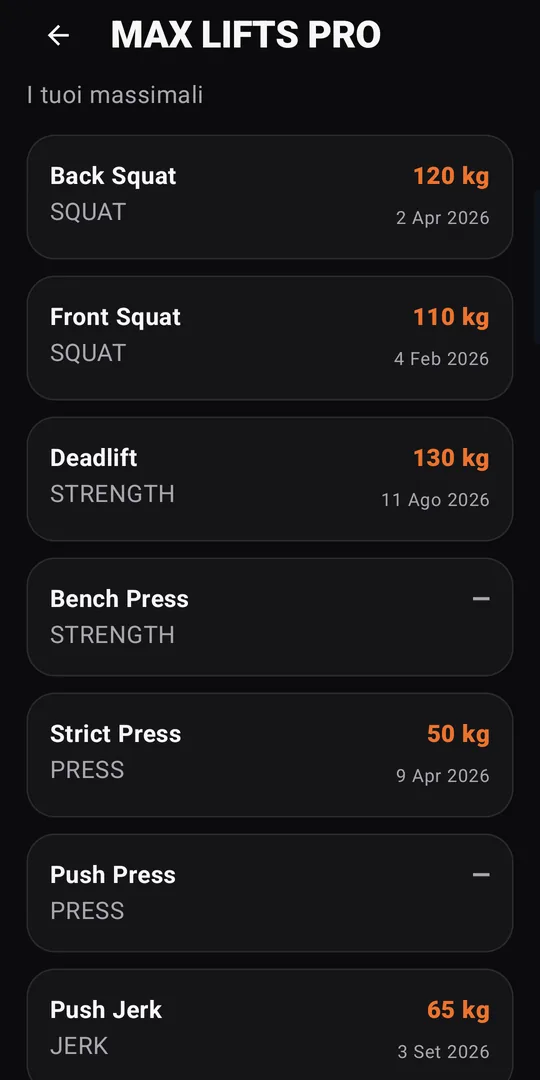
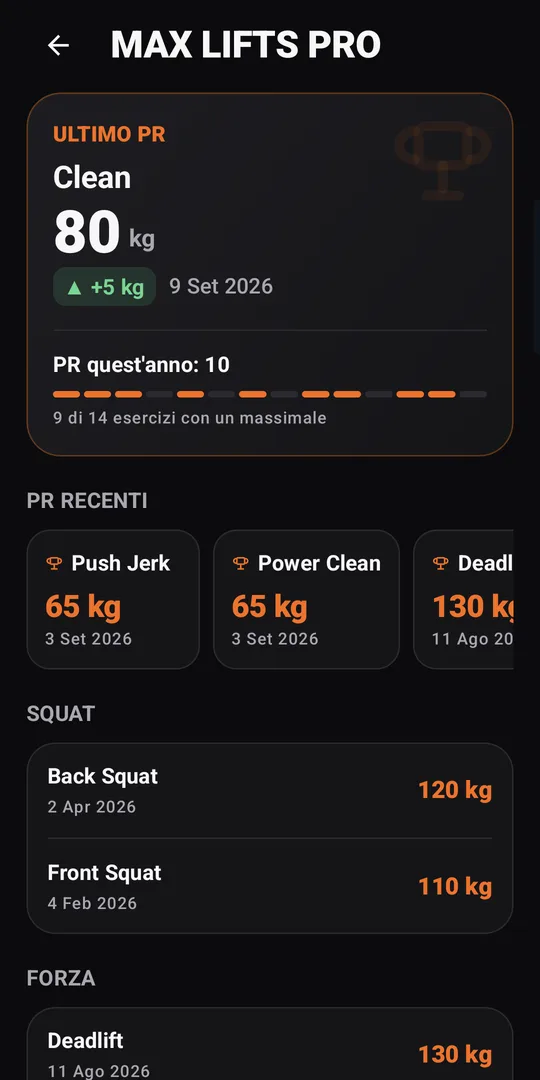
Guida: nuovo check-in, History Pro nelle azioni rapide, cambio rapido profilo, FC massima in Analytics, regole di Progress Intelligence; screenshot aggiornati (home, Iron Coach, massimali, Progress, profilo, scheda esercizio)
Claude-Session: https://claude.ai/code/session_01B6vcT2Bh3pFPGsDXMHdm6f

diff --git a/guida/index.html b/guida/index.html
@@ -193,14 +193,20 @@ const SECTIONS = [
     id: 'start',
     title: { it: 'Primi passi', en: 'Getting started', es: 'Primeros pasos' },
     intro: {
-      it: 'La Home raccoglie l\'atleta attivo, le azioni rapide, il consiglio di Iron Coach e le ultime sessioni. Il menu in alto a sinistra apre tutte le sezioni.',
-      en: 'Home shows the active athlete, quick actions, today\'s Iron Coach advice and your latest sessions. The menu at the top left opens every section.',
-      es: 'La Home reúne el atleta activo, las acciones rápidas, el consejo de Iron Coach y las últimas sesiones. El menú arriba a la izquierda abre todas las secciones.'
+      it: 'La Home si apre con la scheda <b>Oggi</b> di Iron Coach, poi le azioni rapide, la tua settimana, l\'Iron Score e l\'andamento. L\'avatar in alto a destra cambia atleta, il menu in alto a sinistra apre tutte le sezioni.',
+      en: 'Home opens with Iron Coach\'s <b>Today</b> card, then quick actions, your week, the Iron Score and your trends. The avatar at the top right switches athlete, the menu at the top left opens every section.',
+      es: 'La Home se abre con la ficha <b>Hoy</b> de Iron Coach, luego las acciones rápidas, tu semana, el Iron Score y la evolución. El avatar arriba a la derecha cambia de atleta, el menú arriba a la izquierda abre todas las secciones.'
     },
     shots: [['home', { it: 'Home', en: 'Home', es: 'Home' }], ['drawer', { it: 'Menu laterale', en: 'Side menu', es: 'Menú lateral' }]],
     items: [
+      { t: { it: 'Oggi e Inizia', en: 'Today and Start', es: 'Hoy y Empezar' },
+        d: { it: 'La scheda arancione propone l\'allenamento del giorno. <b>Inizia</b> chiede dove ti alleni (<b>al box</b>, con <b>la tua attrezzatura</b> del profilo atleta o a <b>corpo libero</b>) e quanto tempo hai, poi genera un WOD su misura per il tuo livello e le tue skill, pronto da avviare o modificare. L\'ultima scelta viene ricordata. <b>Scegli un WOD</b> apre invece la libreria. Dalla stessa scheda fai il check-in del giorno: dopo vedi la tua prontezza a colori e, riga per riga, come il WOD è stato adattato a come stai.', en: 'The orange card suggests today\'s workout. <b>Start</b> asks where you train (<b>at the box</b>, with <b>your equipment</b> from the athlete profile or <b>bodyweight</b>) and how much time you have, then generates a WOD tailored to your level and skills, ready to start or edit. Your last choice is remembered. <b>Pick a WOD</b> opens the library instead. The same card has the daily check-in: afterwards it shows your readiness in color and, line by line, how the WOD was adapted to how you feel.', es: 'La ficha naranja propone el entrenamiento del día. <b>Empezar</b> pregunta dónde entrenas (<b>en el box</b>, con <b>tu material</b> del perfil de atleta o con <b>peso corporal</b>) y cuánto tiempo tienes, y genera un WOD a medida de tu nivel y tus skills, listo para iniciar o editar. Se recuerda la última elección. <b>Elegir un WOD</b> abre en cambio la biblioteca. En la misma ficha haces el check-in del día: después ves tu preparación en colores y, línea por línea, cómo se ha adaptado el WOD a cómo estás.' } },
+      { t: { it: 'Settimana e Iron Score', en: 'Week and Iron Score', es: 'Semana e Iron Score' },
+        d: { it: 'La settimana da lunedì a domenica con i giorni allenati spuntati, i giorni di fila, le sessioni e i minuti. L\'Iron Score riassume costanza ed esperienza: i livelli più alti arrivano solo con mesi di allenamento.', en: 'The week from Monday to Sunday with trained days ticked, your streak, sessions and minutes. The Iron Score sums up consistency and experience: the top levels only come with months of training.', es: 'La semana de lunes a domingo con los días entrenados marcados, los días seguidos, las sesiones y los minutos. El Iron Score resume constancia y experiencia: los niveles más altos solo llegan con meses de entrenamiento.' } },
       { t: { it: 'Azioni rapide', en: 'Quick actions', es: 'Acciones rápidas' },
-        d: { it: 'Quattro scorciatoie personalizzabili verso le sezioni che usi di più (Timer, Workout, Esercizi, Massimali…).', en: 'Four customizable shortcuts to the sections you use most (Timers, Workout, Exercises, Max lifts…).', es: 'Cuatro accesos directos personalizables a las secciones que más usas (Timers, Workout, Ejercicios, Máximos…).' } },
+        d: { it: 'Quattro scorciatoie personalizzabili verso le sezioni che usi di più (Timer, History Pro, Esercizi, Massimali…).', en: 'Four customizable shortcuts to the sections you use most (Timers, History Pro, Exercises, Max lifts…).', es: 'Cuatro accesos directos personalizables a las secciones que más usas (Timers, History Pro, Ejercicios, Máximos…).' } },
+      { t: { it: 'Progressi e percorso', en: 'Progress and journey', es: 'Progreso y recorrido' },
+        d: { it: 'Più in basso due grafici: gli <b>ultimi 30 giorni</b> (giorni attivi, tempo totale e confronto con i 30 giorni prima) e le <b>ultime 12 settimane</b>, una colonna per settimana con i giorni di allenamento e la linea della tua media.', en: 'Further down, two charts: the <b>last 30 days</b> (active days, total time and comparison with the 30 days before) and the <b>last 12 weeks</b>, one column per week with your training days and a line at your average.', es: 'Más abajo, dos gráficos: los <b>últimos 30 días</b> (días activos, tiempo total y comparación con los 30 días anteriores) y las <b>últimas 12 semanas</b>, una columna por semana con los días de entrenamiento y la línea de tu media.' } },
       { t: { it: 'Lingua e terminologia', en: 'Language and terminology', es: 'Idioma y terminología' },
         d: { it: 'Italiano, inglese e spagnolo. I nomi ufficiali del cross training (Thruster, Muscle-Up, For Time…) restano in inglese in tutte le lingue, come in palestra.', en: 'Italian, English and Spanish. Official cross-training names (Thruster, Muscle-Up, For Time…) stay in English in every language, as in the box.', es: 'Italiano, inglés y español. Los nombres oficiales del cross training (Thruster, Muscle-Up, For Time…) se mantienen en inglés en todos los idiomas, como en el box.' } },
       { t: { it: 'Unità e tema', en: 'Units and theme', es: 'Unidades y tema' },
@@ -330,7 +336,7 @@ const SECTIONS = [
       { t: { it: 'Aprire un WOD ricevuto', en: 'Opening a WOD you received', es: 'Abrir un WOD recibido' },
         d: { it: 'Toccando il link si apre l\'editor con il WOD già compilato: intervalli, round, tempi, esercizi e carichi. Controlla, cambia quello che vuoi e salva. Chi non ha l\'app vede l\'anteprima del WOD nel browser e il link a Google Play.', en: 'Tapping the link opens the editor with the WOD already filled in: intervals, rounds, times, exercises and loads. Review it, change what you like and save. Without the app, the browser shows a preview of the WOD and the Google Play link.', es: 'Al tocar el enlace se abre el editor con el WOD ya completo: intervalos, rondas, tiempos, ejercicios y cargas. Revísalo, cambia lo que quieras y guarda. Sin la app, el navegador muestra una vista previa del WOD y el enlace a Google Play.' } },
       { t: { it: 'Dalle sessioni', en: 'From your sessions', es: 'Desde tus sesiones' },
-        d: { it: 'Nel dettaglio di una sessione le stesse due icone in alto passano il WOD fatto quel giorno, anche se nel frattempo l\'hai cancellato dalla libreria. <b>Condividi risultato</b>, in fondo, manda invece il tuo risultato.', en: 'In a session\'s detail the same two icons at the top pass on the WOD you did that day, even if you have since deleted it from the library. <b>Share result</b>, at the bottom, sends your result instead.', es: 'En el detalle de una sesión los mismos dos iconos de arriba pasan el WOD que hiciste ese día, aunque lo hayas borrado de la biblioteca. <b>Compartir resultado</b>, abajo, envía en cambio tu resultado.' } }
+        d: { it: 'Nel dettaglio di una sessione le stesse due icone in alto passano il WOD fatto quel giorno, anche se nel frattempo l\'hai cancellato dalla libreria. <b>Condividi risultato</b>, in fondo, manda invece il tuo risultato: un messaggio ordinato con tempo, blocchi e intervalli come li hai fatti, tempi dei round e note.', en: 'In a session\'s detail the same two icons at the top pass on the WOD you did that day, even if you have since deleted it from the library. <b>Share result</b>, at the bottom, sends your result instead: a tidy message with time, blocks and intervals as you did them, round times and notes.', es: 'En el detalle de una sesión los mismos dos iconos de arriba pasan el WOD que hiciste ese día, aunque lo hayas borrado de la biblioteca. <b>Compartir resultado</b>, abajo, envía en cambio tu resultado: un mensaje ordenado con tiempo, bloques e intervalos como los hiciste, tiempos de las rondas y notas.' } }
     ],
     tip: {
       it: 'Gli esercizi personalizzati arrivano come testo libero, perché sull\'altro telefono non esistono: chi riceve il WOD può collegarli al catalogo dall\'editor.',
@@ -399,18 +405,22 @@ const SECTIONS = [
     id: 'exercises',
     title: { it: 'Esercizi', en: 'Exercises', es: 'Ejercicios' },
     intro: {
-      it: 'Un catalogo di circa 580 esercizi del cross training, con descrizione, esecuzione, standard e muscoli coinvolti in italiano, inglese e spagnolo.',
-      en: 'A catalog of about 580 cross-training exercises, with description, execution, standard and muscles worked in Italian, English and Spanish.',
-      es: 'Un catálogo de unos 580 ejercicios de cross training, con descripción, ejecución, estándar y músculos implicados en italiano, inglés y español.'
+      it: 'Un catalogo di circa 580 esercizi del cross training, ognuno con un\'illustrazione animata dell\'esecuzione, descrizione, standard e muscoli coinvolti in italiano, inglese e spagnolo.',
+      en: 'A catalog of about 580 cross-training exercises, each with an animated illustration of the movement, description, standard and muscles worked in Italian, English and Spanish.',
+      es: 'Un catálogo de unos 580 ejercicios de cross training, cada uno con una ilustración animada de la ejecución, descripción, estándar y músculos implicados en italiano, inglés y español.'
     },
     shots: [['exercise', { it: 'Scheda esercizio', en: 'Exercise card', es: 'Ficha de ejercicio' }]],
     items: [
+      { t: { it: 'Illustrazioni animate', en: 'Animated illustrations', es: 'Ilustraciones animadas' },
+        d: { it: 'Aprendo un esercizio, accanto al nome una figura alterna la posizione di partenza e quella di arrivo, con l\'attrezzo giusto (bilanciere, manubri, kettlebell, box, sbarra, anelli…). I movimenti laterali sono mostrati di fronte. Se hai disattivato le animazioni del telefono resta ferma la posizione finale.', en: 'When you open an exercise, a figure next to the name alternates the start and end positions, with the right equipment (barbell, dumbbells, kettlebell, box, bar, rings…). Lateral movements are shown from the front. If your phone\'s animations are off, the end position stays still.', es: 'Al abrir un ejercicio, junto al nombre una figura alterna la posición inicial y la final, con el material correcto (barra, mancuernas, kettlebell, cajón, barra de dominadas, anillas…). Los movimientos laterales se muestran de frente. Si has desactivado las animaciones del teléfono, se queda fija la posición final.' } },
+      { t: { it: 'Scheda dal basso', en: 'Card from the bottom', es: 'Ficha desde abajo' },
+        d: { it: 'Toccando un esercizio la scheda sale dal basso sopra la lista, che resta dov\'era. Per chiuderla trascinala giù, tocca fuori o premi Indietro. Se continui a trascinare dopo averla chiusa, con lo stesso gesto scorri la lista.', en: 'Tapping an exercise slides its card up over the list, which stays where it was. To close it drag it down, tap outside or press Back. Keep dragging after it closes and the same gesture scrolls the list.', es: 'Al tocar un ejercicio la ficha sube desde abajo sobre la lista, que se queda donde estaba. Para cerrarla arrástrala hacia abajo, toca fuera o pulsa Atrás. Si sigues arrastrando después de cerrarla, con el mismo gesto desplazas la lista.' } },
       { t: { it: 'Mappa muscolare', en: 'Muscle map', es: 'Mapa muscular' },
         d: { it: 'Fronte e retro del corpo con i muscoli principali e secondari evidenziati.', en: 'Front and back of the body with primary and secondary muscles highlighted.', es: 'Frente y espalda del cuerpo con los músculos principales y secundarios resaltados.' } },
       { t: { it: 'Ricerca intelligente', en: 'Smart search', es: 'Búsqueda inteligente' },
         d: { it: 'Trova gli esercizi anche per alias e sigle da lavagna (BMU, T2B, KBS…), con filtri per tipo, categoria, attrezzatura e difficoltà, e i preferiti in cima.', en: 'Finds exercises by alias and board shorthand too (BMU, T2B, KBS…), with type, category, equipment and difficulty filters, and favorites first.', es: 'Encuentra ejercicios también por alias y siglas de pizarra (BMU, T2B, KBS…), con filtros por tipo, categoría, material y dificultad, y los favoritos primero.' } },
       { t: { it: 'Esercizi tuoi', en: 'Your own exercises', es: 'Tus propios ejercicios' },
-        d: { it: 'Aggiungi esercizi personalizzati. Quelli standard si possono modificare solo attivando l\'opzione apposita in Impostazioni.', en: 'Add custom exercises. Standard ones can be edited only after turning on the dedicated option in Settings.', es: 'Añade ejercicios personalizados. Los estándar solo se pueden editar activando la opción correspondiente en Ajustes.' } }
+        d: { it: 'Aggiungi esercizi personalizzati con il pulsante <b>+</b> in basso a destra. Quelli standard si possono modificare solo attivando l\'opzione apposita in Impostazioni.', en: 'Add custom exercises with the <b>+</b> button at the bottom right. Standard ones can be edited only after turning on the dedicated option in Settings.', es: 'Añade ejercicios personalizados con el botón <b>+</b> abajo a la derecha. Los estándar solo se pueden editar activando la opción correspondiente en Ajustes.' } }
     ]
   },
   {
@@ -423,6 +433,10 @@ const SECTIONS = [
     },
     shots: [['maxlifts', { it: 'Massimali', en: 'Max lifts', es: 'Máximos' }], ['maxlift-detail', { it: 'Percentuali', en: 'Percentages', es: 'Porcentajes' }]],
     items: [
+      { t: { it: 'Ultimo PR', en: 'Latest PR', es: 'Último PR' },
+        d: { it: 'In alto il tuo ultimo record in grande, con quanto hai guadagnato e la data: toccalo per aprire l\'esercizio. Sotto, i PR fatti quest\'anno e una barra che mostra quanti esercizi hanno già un massimale.', en: 'At the top, your latest record in big type, with how much you gained and the date: tap it to open the lift. Below, the PRs set this year and a bar showing how many lifts already have a max.', es: 'Arriba, tu último récord en grande, con cuánto has ganado y la fecha: tócalo para abrir el ejercicio. Debajo, los PR de este año y una barra que muestra cuántos ejercicios ya tienen un máximo.' } },
+      { t: { it: 'PR recenti e famiglie', en: 'Recent PRs and families', es: 'PR recientes y familias' },
+        d: { it: 'Una striscia con gli ultimi record e quanto hai guadagnato, poi gli esercizi divisi per famiglia (Squat, Forza, Press, Jerk, Sollevamenti olimpici). Ogni riga mostra il massimale, la data, un mini-grafico del progresso e l\'ultimo guadagno; se il valore è solo stimato compare ≈. Negli esercizi ancora vuoti c\'è <b>+ Aggiungi</b>.', en: 'A strip with your latest records and how much you gained, then the lifts grouped by family (Squat, Strength, Press, Jerk, Olympic lifts). Each row shows the max, the date, a small progress chart and the last gain; a value that is only estimated shows ≈. Lifts still empty have <b>+ Add</b>.', es: 'Una franja con los últimos récords y cuánto has ganado, y luego los ejercicios agrupados por familia (Sentadilla, Fuerza, Press, Jerk, Levantamientos olímpicos). Cada fila muestra el máximo, la fecha, un minigráfico del progreso y la última mejora; un valor solo estimado muestra ≈. Los ejercicios aún vacíos tienen <b>+ Añadir</b>.' } },
       { t: { it: '1RM stimato', en: 'Estimated 1RM', es: '1RM estimado' },
         d: { it: 'Da un 3RM o 5RM l\'app stima l\'1RM con la formula che preferisci: Brzycki, Epley, Lombardi, Mayhew o O\'Conner. Un 1RM vero resta sempre il riferimento.', en: 'From a 3RM or 5RM the app estimates your 1RM with the formula you prefer: Brzycki, Epley, Lombardi, Mayhew or O\'Conner. A real 1RM always stays the reference.', es: 'A partir de un 3RM o 5RM la app estima el 1RM con la fórmula que prefieras: Brzycki, Epley, Lombardi, Mayhew u O\'Conner. Un 1RM real sigue siendo siempre la referencia.' } },
       { t: { it: 'Percentuali e storico', en: 'Percentages and history', es: 'Porcentajes e historial' },
@@ -460,7 +474,9 @@ const SECTIONS = [
       { t: { it: 'Analytics', en: 'Analytics', es: 'Analytics' },
         d: { it: 'Schede Panoramica, Muscoli, Carico, Workout e Record: streak, durata media, RPE medio, mese più attivo, gruppi muscolari trascurati, tempo nelle zone cardio.', en: 'Overview, Muscles, Load, Workouts and Records tabs: streaks, average duration, average RPE, busiest month, neglected muscle groups, time in heart-rate zones.', es: 'Pestañas Resumen, Músculos, Carga, Workouts y Récords: rachas, duración media, RPE medio, mes más activo, grupos musculares olvidados, tiempo en zonas cardiacas.' } },
       { t: { it: 'Progress Intelligence', en: 'Progress Intelligence', es: 'Progress Intelligence' },
-        d: { it: 'Esercizi, benchmark e massimali a confronto: e1RM, frequenza settimanale, PR recenti e crescita stimata di ogni movimento.', en: 'Exercises, benchmarks and max lifts compared: e1RM, weekly frequency, recent PRs and estimated growth of every movement.', es: 'Ejercicios, benchmarks y máximos comparados: e1RM, frecuencia semanal, PR recientes y crecimiento estimado de cada movimiento.' } }
+        d: { it: 'Esercizi, benchmark e massimali a confronto: frequenza settimanale, PR recenti, 1RM ed e1RM. Le variazioni percentuali compaiono solo quando c\'è davvero qualcosa da confrontare: almeno 3 sessioni nei 30 giorni precedenti e, per un esercizio, almeno 2 sessioni in entrambi i periodi. Un massimale è <b>in crescita</b> solo quando l\'ultimo record supera il migliore precedente; un set più leggero non conta come calo. Distanze e carichi seguono il sistema di unità scelto.', en: 'Exercises, benchmarks and max lifts compared: weekly frequency, recent PRs, 1RM and e1RM. Percentage changes only show when there is something real to compare: at least 3 sessions in the previous 30 days and, for an exercise, at least 2 sessions in both periods. A max lift is <b>improving</b> only when the latest record beats the previous best; a lighter set doesn\'t count as a drop. Distances and loads follow your unit system.', es: 'Ejercicios, benchmarks y máximos comparados: frecuencia semanal, PR recientes, 1RM y e1RM. Las variaciones porcentuales solo aparecen cuando hay algo real que comparar: al menos 3 sesiones en los 30 días anteriores y, para un ejercicio, al menos 2 sesiones en ambos periodos. Un máximo está <b>mejorando</b> solo cuando el último registro supera el mejor anterior; una serie más ligera no cuenta como bajada. Distancias y cargas siguen tu sistema de unidades.' } },
+      { t: { it: 'Nuova FC massima', en: 'New max heart rate', es: 'Nueva FC máxima' },
+        d: { it: 'Se in allenamento superi la FC massima del tuo profilo, in cima ad Analytics compare la proposta di aggiornarla, qualunque scheda tu abbia aperto: <b>Aggiorna FC massima</b> o <b>Ignora</b>. Ignorata, torna solo con un valore ancora più alto.', en: 'If you go past your profile\'s max heart rate in a workout, a proposal to update it appears at the top of Analytics, whatever tab is open: <b>Update max HR</b> or <b>Ignore</b>. Once ignored, it only comes back with an even higher value.', es: 'Si en un entrenamiento superas la FC máxima de tu perfil, arriba en Analytics aparece la propuesta de actualizarla, sea cual sea la pestaña abierta: <b>Actualizar FC máxima</b> o <b>Ignorar</b>. Si la ignoras, solo vuelve con un valor aún más alto.' } }
     ]
   },
   {
@@ -490,7 +506,7 @@ const SECTIONS = [
     shots: [['coach', { it: 'Iron Coach', en: 'Iron Coach', es: 'Iron Coach' }]],
     items: [
       { t: { it: 'Check-in del giorno', en: 'Daily check-in', es: 'Check-in del día' },
-        d: { it: 'Sonno, energia e indolenzimento: il consiglio di oggi si adatta a come ti senti. Il check-in vale per la giornata e si azzera il giorno dopo; può ricordartelo all\'apertura dell\'app.', en: 'Sleep, energy and soreness: today\'s advice adapts to how you feel. The check-in lasts for the day and resets the next; it can remind you when you open the app.', es: 'Sueño, energía y agujetas: el consejo de hoy se adapta a cómo te sientes. El check-in vale para el día y se reinicia al siguiente; puede recordártelo al abrir la app.' } },
+        d: { it: 'Dieci secondi: <b>sonno</b> ed <b>energia</b> su cinque livelli, <b>dolori</b> (nessuno, leggeri, forti) con la zona (gambe, schiena, spalle e braccia, core) e la <b>voglia di spingere</b>. Ogni risposta cambia una parte diversa del WOD di oggi: sonno ed energia l\'intensità (RPE), l\'energia la durata, i dolori tolgono gli esercizi sulla zona indicata e, se forti, i carichi pesanti, la voglia sceglie il formato (EMOM controllato, AMRAP o For Time). Sotto le domande, <b>Il tuo WOD di oggi</b> spiega punto per punto cosa è cambiato e lo genera con un tocco. <b>Fatto</b>, <b>Modifica</b> e <b>Azzera</b> sono subito sotto le domande; il check-in vale per la giornata.', en: 'Ten seconds: <b>sleep</b> and <b>energy</b> on five levels, <b>soreness</b> (none, light, strong) with where (legs, back, shoulders and arms, core) and your <b>drive to push</b>. Each answer changes a different part of today\'s WOD: sleep and energy the intensity (RPE), energy the length, soreness leaves out exercises for that area and, when strong, heavy loads, drive picks the format (controlled EMOM, AMRAP or For Time). Below the questions, <b>Your WOD today</b> explains point by point what changed and generates it with one tap. <b>Done</b>, <b>Edit</b> and <b>Reset</b> sit right under the questions; the check-in lasts for the day.', es: 'Diez segundos: <b>sueño</b> y <b>energía</b> en cinco niveles, <b>dolores</b> (ninguno, leves, fuertes) con la zona (piernas, espalda, hombros y brazos, core) y las <b>ganas de apretar</b>. Cada respuesta cambia una parte distinta del WOD de hoy: sueño y energía la intensidad (RPE), la energía la duración, los dolores quitan los ejercicios de esa zona y, si son fuertes, las cargas pesadas, las ganas eligen el formato (EMOM controlado, AMRAP o For Time). Debajo de las preguntas, <b>Tu WOD de hoy</b> explica punto por punto qué ha cambiado y lo genera con un toque. <b>Hecho</b>, <b>Editar</b> y <b>Borrar</b> están justo debajo de las preguntas; el check-in vale para todo el día.' } },
       { t: { it: 'Oggi, Settimana, Analisi', en: 'Today, Week, Analysis', es: 'Hoy, Semana, Análisis' },
         d: { it: 'La sessione consigliata, il piano della settimana, i trend e i punteggi con l\'affidabilità dei dati su cui si basano.', en: 'The suggested session, the weekly plan, trends and scores with how reliable the underlying data is.', es: 'La sesión recomendada, el plan de la semana, las tendencias y las puntuaciones con la fiabilidad de los datos en que se basan.' } }
     ],
@@ -524,10 +540,12 @@ const SECTIONS = [
     },
     shots: [['profiles-list', { it: 'Cambia profilo', en: 'Switch profile', es: 'Cambiar perfil' }]],
     items: [
+      { t: { it: 'Cambio al volo', en: 'Quick switch', es: 'Cambio rápido' },
+        d: { it: 'In cima al Profilo atleta c\'è una striscia con gli avatar di tutti i profili: toccane uno e passi subito a quell\'atleta, quello attivo ha il bordo arancione. In fondo alla striscia <b>+</b> aggiunge un atleta e l\'ingranaggio apre la gestione dei profili.', en: 'At the top of the Athlete profile there is a strip with every profile\'s avatar: tap one and you switch to that athlete straight away, the active one has an orange ring. At the end of the strip <b>+</b> adds an athlete and the gear opens profile management.', es: 'Arriba en el Perfil de atleta hay una franja con los avatares de todos los perfiles: toca uno y cambias al momento a ese atleta, el activo tiene el borde naranja. Al final de la franja <b>+</b> añade un atleta y el engranaje abre la gestión de perfiles.' } },
       { t: { it: 'Profilo atleta', en: 'Athlete profile', es: 'Perfil de atleta' },
         d: { it: 'Foto o avatar, sesso, livello, attrezzatura disponibile, skill acquisite, frequenza cardiaca a riposo, massima e soglia. Storico, massimali e statistiche sono separati per profilo.', en: 'Photo or avatar, sex, level, available equipment, acquired skills, resting, max and threshold heart rate. History, max lifts and stats are kept per profile.', es: 'Foto o avatar, sexo, nivel, material disponible, skills adquiridas, frecuencia cardiaca en reposo, máxima y umbral. Historial, máximos y estadísticas van por perfil.' } },
       { t: { it: 'Modalità Coach', en: 'Coach mode', es: 'Modo Coach' },
-        d: { it: 'Con il profilo Coach attivo i timer funzionano normalmente ma non salvano sessioni né dati cardio: è pensato per chi guida la lezione.', en: 'With the Coach profile active, timers work normally but save no sessions or heart-rate data: it\'s meant for whoever runs the class.', es: 'Con el perfil Coach activo los temporizadores funcionan normalmente pero no guardan sesiones ni datos cardiacos: está pensado para quien dirige la clase.' } }
+        d: { it: 'Con il profilo Coach attivo la Home diventa quella di chi guida la lezione: <b>Avvia timer</b> e <b>Apri un WOD</b> da mostrare agli atleti, gli strumenti e come portare il timer sulla TV del box (Chromecast o HDMI). I timer funzionano normalmente ma non salvano sessioni né dati cardio. Tocca l\'avatar per tornare a un atleta.', en: 'With the Coach profile active, Home becomes the one for whoever runs the class: <b>Start timer</b> and <b>Open a WOD</b> to show the athletes, the tools and how to put the timer on the box TV (Chromecast or HDMI). Timers work normally but save no sessions or heart-rate data. Tap the avatar to switch back to an athlete.', es: 'Con el perfil Coach activo la Home pasa a ser la de quien dirige la clase: <b>Iniciar temporizador</b> y <b>Abrir un WOD</b> para mostrar a los atletas, las herramientas y cómo llevar el temporizador a la TV del box (Chromecast o HDMI). Los temporizadores funcionan normalmente pero no guardan sesiones ni datos cardiacos. Toca el avatar para volver a un atleta.' } }
     ]
   },
   {
